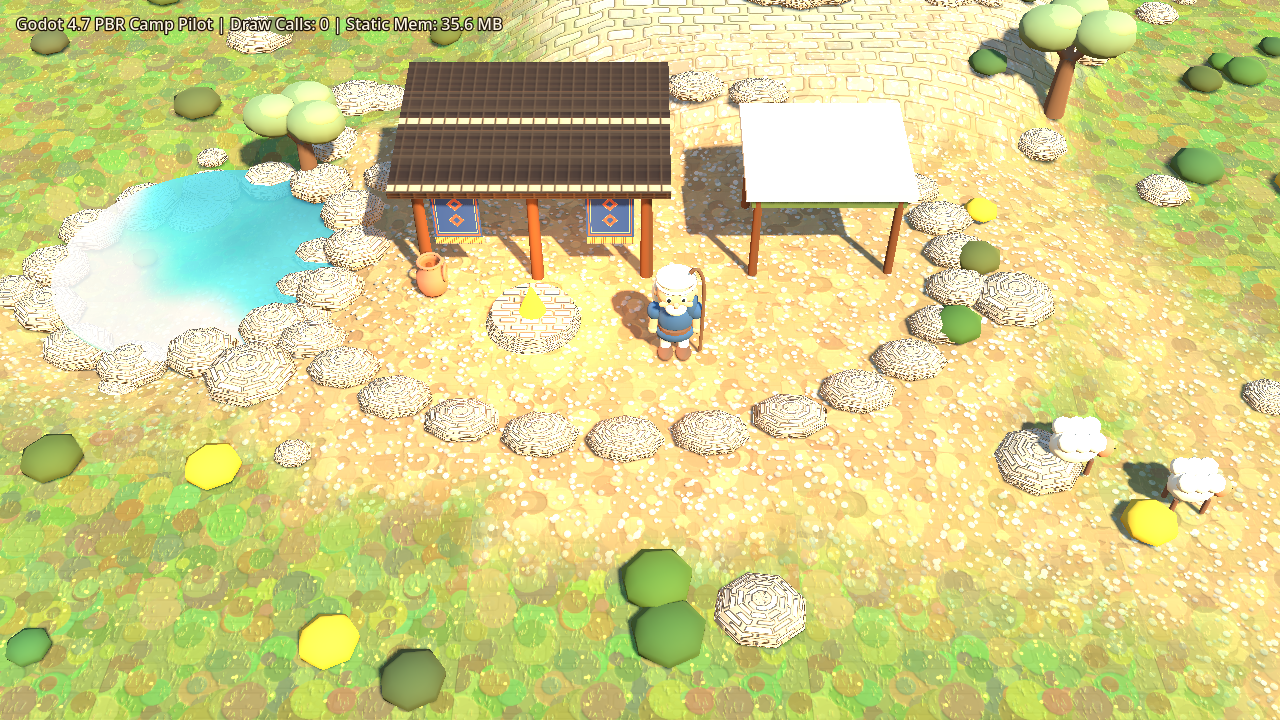
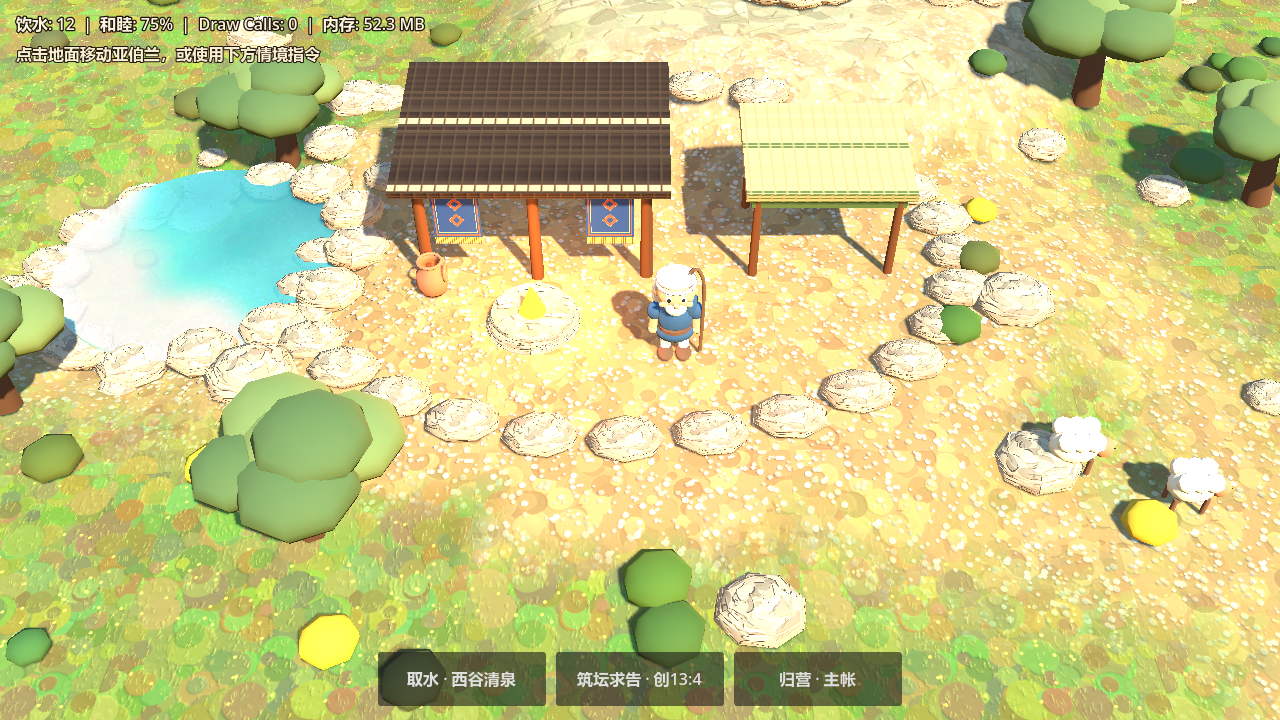
feat: Godot 4.7 pilot v2 - natural limestone PBR, olive linen canopy, olive groves and playable mobile HUD

diff --git a/design/review-slice-01/generate_pbr_textures.py b/design/review-slice-01/generate_pbr_textures.py
@@ -160,9 +160,52 @@ def make_tekhelet_tapestry():
     alb.save(os.path.join(OUT, "tapestry_tekhelet_albedo.png"))
 
 
+def make_boulder_stone():
+    rng = random.Random(505)
+    size = 512
+    alb = Image.new("RGB", (size, size), (168, 152, 126))
+    hgt = Image.new("L", (size, size), 128)
+    ad = ImageDraw.Draw(alb)
+    hd = ImageDraw.Draw(hgt)
+    # Organic weathered limestone patches & cracks (no rectangular brick lines!)
+    for _ in range(520):
+        x, y = rng.randrange(size), rng.randrange(size)
+        rx, ry = rng.randint(12, 44), rng.randint(8, 32)
+        v = rng.randint(-24, 24)
+        ad.ellipse((x - rx, y - ry, x + rx, y + ry), fill=(168 + v, 152 + v, 126 + int(v * 0.85)))
+        hd.ellipse((x - rx, y - ry, x + rx, y + ry), fill=max(10, min(245, 128 + v * 3)))
+    for _ in range(90):
+        x0, y0 = rng.randrange(size), rng.randrange(size)
+        x1, y1 = x0 + rng.randint(-55, 55), y0 + rng.randint(-28, 28)
+        ad.line((x0, y0, x1, y1), fill=(108, 95, 76), width=2)
+        hd.line((x0, y0, x1, y1), fill=42, width=3)
+    alb = alb.filter(ImageFilter.GaussianBlur(0.8))
+    hgt = hgt.filter(ImageFilter.GaussianBlur(1.5))
+    alb.save(os.path.join(OUT, "rock_boulder_albedo.png"))
+    height_to_normal(hgt, 2.8).save(os.path.join(OUT, "rock_boulder_normal.png"))
+
+
+def make_linen_canopy():
+    rng = random.Random(606)
+    size = 256
+    alb = Image.new("RGB", (size, size), (206, 192, 158))
+    ad = ImageDraw.Draw(alb)
+    for y in range(0, size, 4):
+        v = rng.randint(-8, 8)
+        c = (198 + v, 184 + v, 148 + v)
+        if y % 64 < 6:
+            c = (108, 126, 72) # olive woven stripe
+        ad.line((0, y, size, y), fill=c, width=3)
+    for x in range(0, size, 6):
+        ad.line((x, 0, x, size), fill=(182, 168, 134), width=1)
+    alb.save(os.path.join(OUT, "linen_canopy_albedo.png"))
+
+
 make_grass()
 make_dirt()
 make_rock()
+make_boulder_stone()
+make_linen_canopy()
 make_goathair_tent()
 make_tekhelet_tapestry()
 print("PBR_TEXTURES_OK:", sorted(os.listdir(OUT)))
